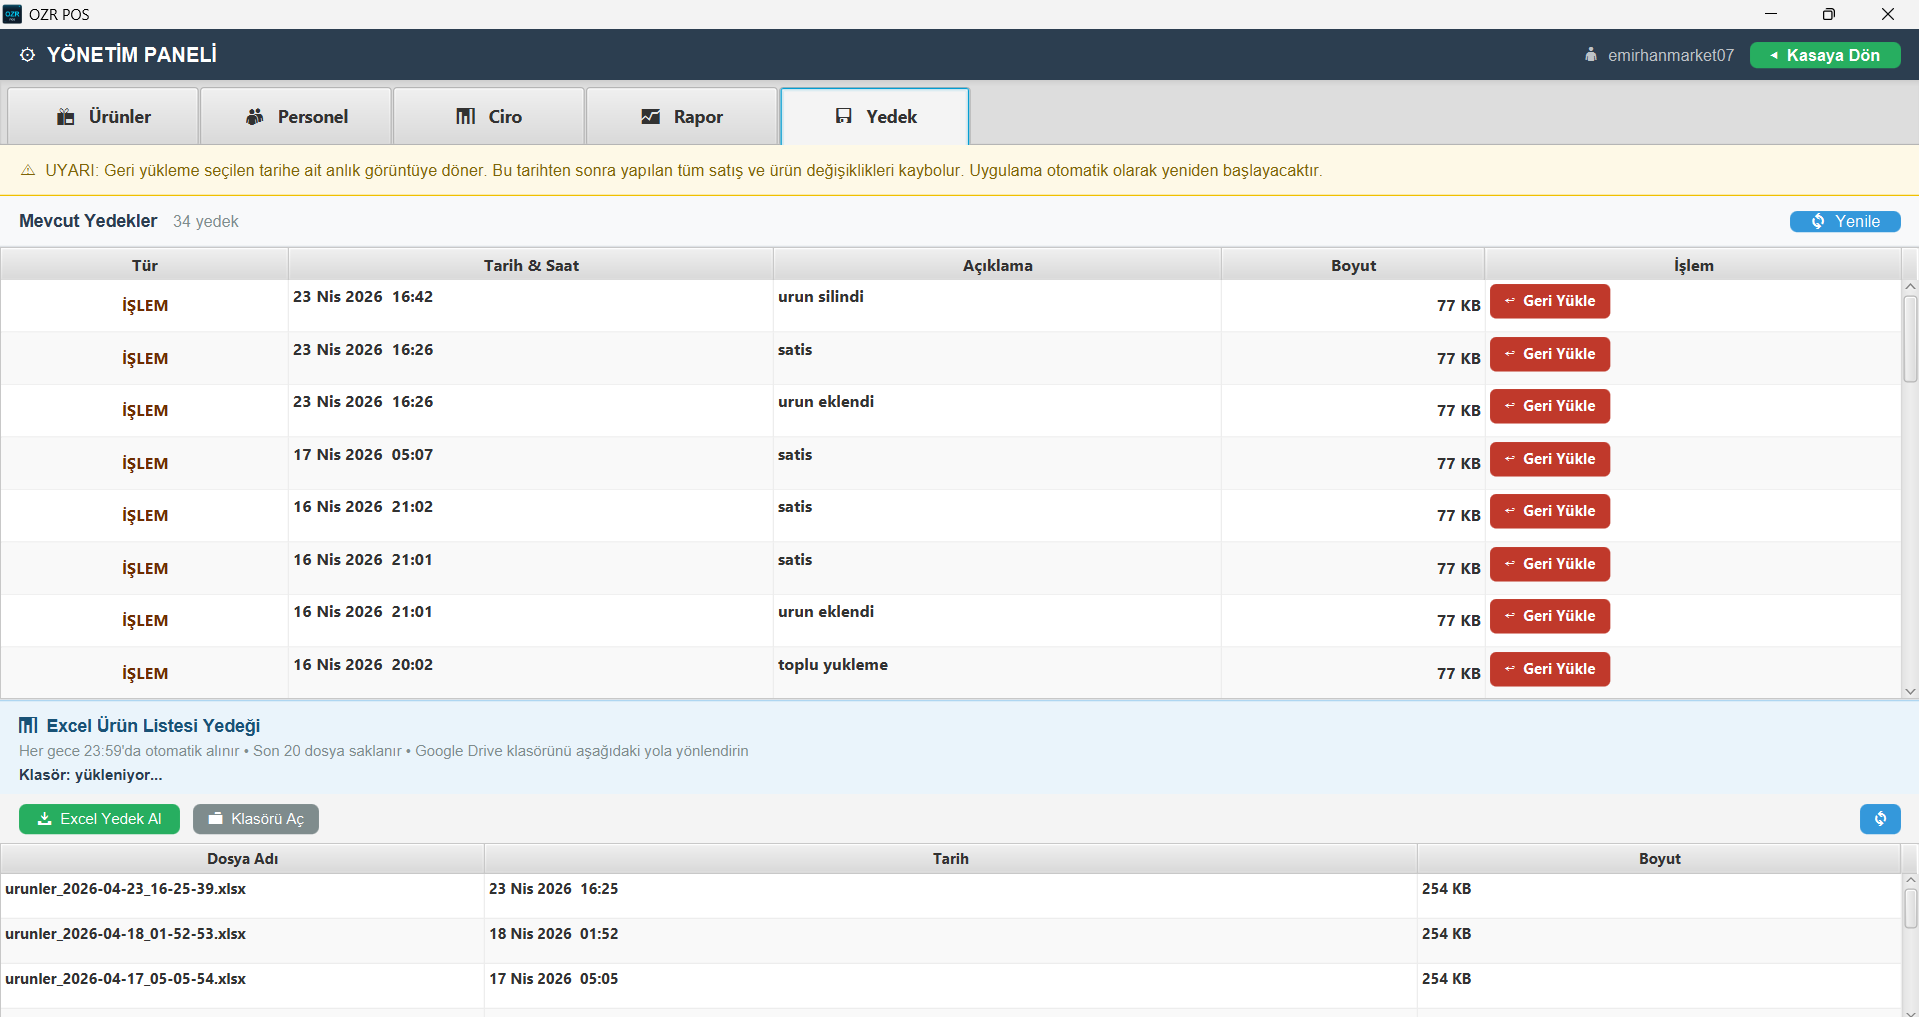
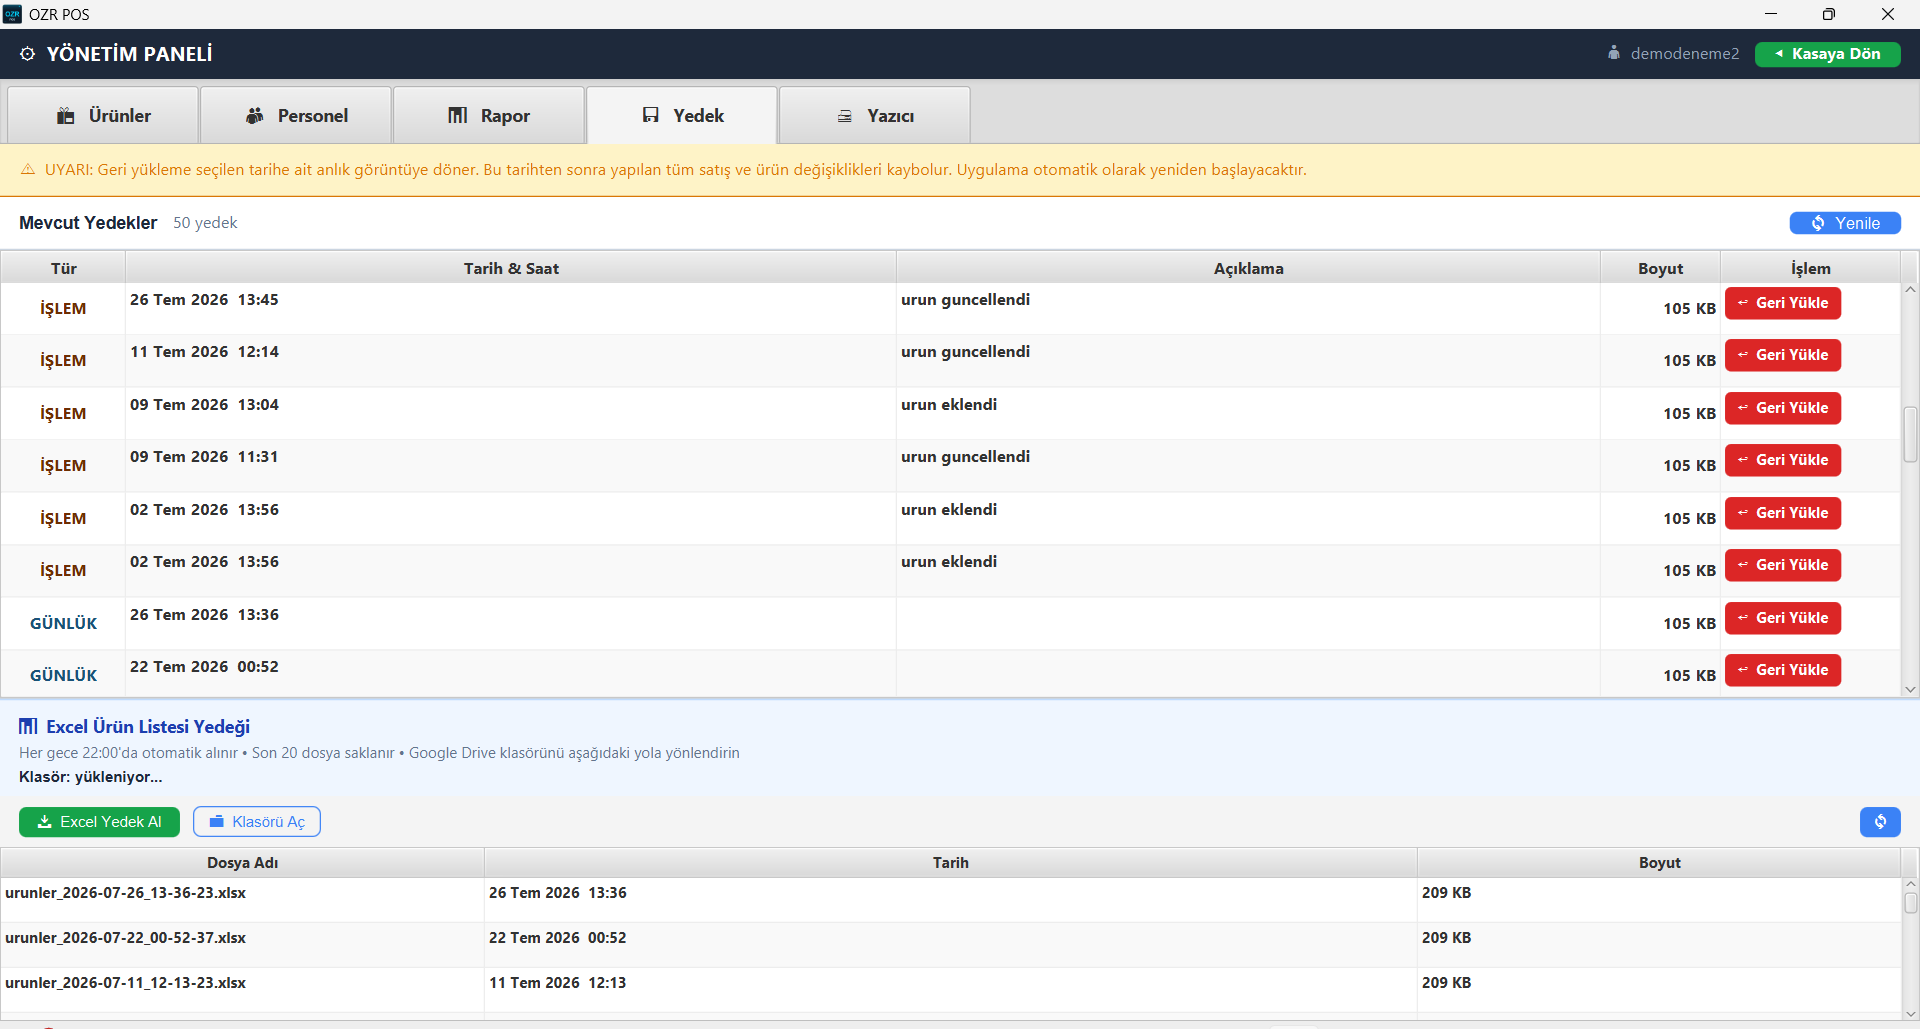
docs: ekran görüntülerini v2.3.7'ye güncelle
satis/urunler/rapor/yedek/giris tazelendi; guncelleme.png (eski surum
numaralari gosteriyordu) yerine ilk-kurulum.png (demo baslatma akisi)
eklendi, README buna gore guncellendi.

diff --git a/README.md b/README.md
@@ -42,8 +42,8 @@
 ### Yedekleme
 ![Yedek](docs/screenshots/yedek.png)
 
-### Otomatik Güncelleme
-![Güncelleme](docs/screenshots/guncelleme.png)
+### İlk Kurulum / 15 Gün Ücretsiz Demo
+![İlk Kurulum](docs/screenshots/ilk-kurulum.png)
 
 </details>
 
